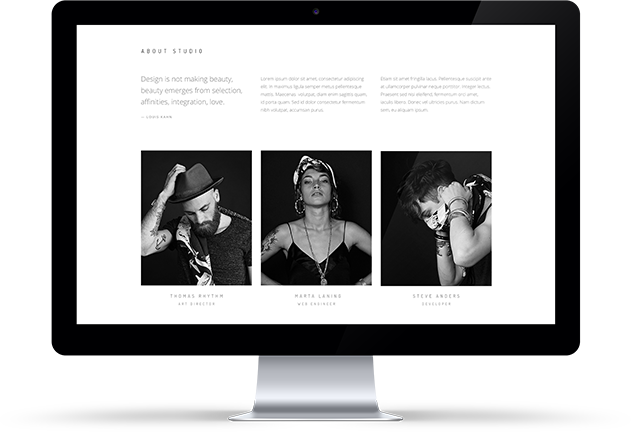
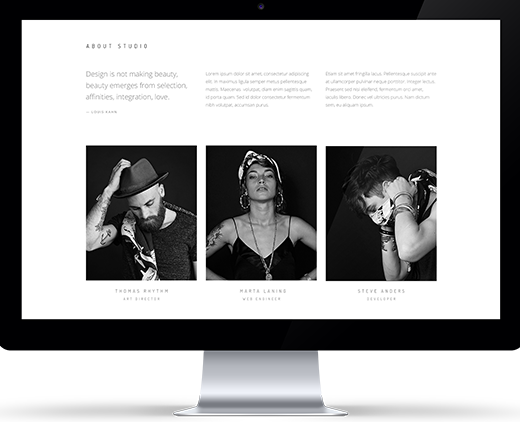
hw9 finished

diff --git a/src/index.html b/src/index.html
@@ -48,22 +48,22 @@
                 <h2 class="title">About studio</h2>
 
                 <div class="row">
-                    <div class="col-4">
+                    <div class="col-4 col-md-6 col-sm-12">
                         <p class="text-lg">Design is not making beauty, beauty emerges from selection, affinities, integration, love.
                         </p>
                         <span class="author">— Louis Kahn</span>
                     </div>
-                    <div class="col-4">
+                    <div class="col-4 col-md-6 col-sm-12">
                         <p class="text">Lorem ipsum dolor sit amet, consectetur adipiscing elit. In maximus ligula semper metus pellentesque mattis. Maecenas  volutpat, diam enim sagittis quam, id porta quam. Sed id dolor consectetur fermentum nibh volutpat, accumsan purus. </p>
                     </div>
-                    <div class="col-4">
+                    <div class="col-4 col-md-6 col-sm-12">
                         <p class="text">Etiam sit amet fringilla lacus. Pellentesque suscipit ante at ullamcorper pulvinar neque porttitor. Integer lectus. Praesent sed nisi eleifend, fermentum orci amet, iaculis libero. Donec vel ultricies purus. Nam dictum sem, eu aliquam ipsum.</p>
                     </div>
                 </div>
                 <!--/ row-->
                 
                 <div class="row">
-                    <div class="col-4">
+                    <div class="col-4 col-md-6 col-sm-12">
                         <div class="worker">
 
                             <div class="worker__photo">
@@ -116,7 +116,7 @@
                         </div>
                     </div>
                     <!-- /col-4-->
-                    <div class="col-4">
+                    <div class="col-4 col-md-6 col-sm-12">
                         <div class="worker">
 
                             <div class="worker__photo">
@@ -169,7 +169,7 @@
                         </div>
                     </div>
                     <!-- /col-4-->
-                    <div class="col-4">
+                    <div class="col-4 col-md-6 col-sm-12">
                         <div class="worker">
 
                             <div class="worker__photo">
@@ -677,6 +677,7 @@
                 <p class="contact__form-desc text-center"><i class="fas fa-info-circle"></i> Please trust us, we will never send you spam</p>
             </div>
         </section>
+        <!--/newsletter-->
         <section class="contact section-default">
             <div class="contact__container">
                 <h2 class="contact__title title text-center">Contact</h2>
@@ -729,6 +730,15 @@
             </div>
         </section>
         <!--/contact-->
+        <section class="map-container">
+            <div class="map">
+                <div class="map__bg d-flex flex-column justify-content-center align-items-center text-center">
+                    <div class="header__btn map__btn"><i class="fas fa-map-marker-alt"></i></div>
+                    <h2 class="map__title">Open the map <i class="fas fa-angle-down"></i></h2>
+                </div>
+                <iframe src="https://www.google.com/maps/embed?pb=!1m18!1m12!1m3!1d20218.778561716357!2d29.5925635!3d50.694939000000005!2m3!1f0!2f0!3f0!3m2!1i1024!2i768!4f13.1!3m3!1m2!1s0x472b0fb6d5ee09b7%3A0x23e8b54aa385af16!2z0J_QtdGB0LrQvtCy0LrQsCwg0JrQuNC10LLRgdC60LDRjyDQvtCx0LvQsNGB0YLRjCwgMDc4MjA!5e0!3m2!1sru!2sua!4v1637168178856!5m2!1sru!2sua" width="100%" height="410" style="border:0;" allowfullscreen="" loading="lazy"></iframe>
+            </div>
+        </section>
     </main>
     <!-- /main -->
     <footer class="footer bg-gray d-flex justify-content-center align-items-center">

diff --git a/src/scss/map/_map.scss b/src/scss/map/_map.scss
@@ -1,0 +1,43 @@
+.map {
+  position: relative;
+
+
+  &:hover {
+    .map__bg {
+      opacity: 0;
+      z-index: -1;
+    }
+  }
+
+
+  &__bg {
+    position: absolute;
+    opacity: 0.9;
+    top: 0;
+    left: 0;
+    width: 100%;
+    height: 100%;
+    z-index: 9;
+    background-color: #131313;
+    transition: all .6s ease-in-out;
+  }
+
+  &__btn {
+    width: 26px;
+    height: 26px;
+
+    & > * {
+      transform: rotate(-45deg);
+    }
+  }
+
+  &__title {
+    opacity: 0.75;
+    color: #ffffff;
+    font-family: 'Dosis', sans-serif;
+    font-size: 16px;
+    font-weight: 400;
+    text-transform: uppercase;
+    letter-spacing: 4.8px;
+  }
+}

diff --git a/src/scss/about/_worker.scss b/src/scss/about/_worker.scss
@@ -24,6 +24,10 @@
     background-color: #131313;
     height: 100%;
     transform: rotateY(180deg);
+
+    @include tablet {
+      padding: 20px;
+    }
   }
   &__skills-title {
     color: #ffffff;
@@ -84,6 +88,21 @@
       .worker__skills {
         transform: rotateY(360deg);
       }
+    }
+
+    @include tablet {
+      height: 400px;
+    }
+    @include mobile-large {
+      height: 450px;
+      max-width: 80%;
+      margin-left: auto;
+      margin-right: auto;
+    }
+
+    @include mobile {
+      max-width: 90%;
+      height: 420px;
     }
   }
 

diff --git a/src/scss/_grid.scss b/src/scss/_grid.scss
@@ -389,7 +389,7 @@
     max-width: 25%;
   }
   .col-lg-4 {
-    flex: 0 0 33.333333%;
+    flex: 0 0 +33.333333%;
     max-width: 33.333333%;
   }
   .col-lg-5 {
@@ -551,7 +551,11 @@
   .col-md-6 {
     flex: 0 0 50%;
     max-width: 50%;
+    &:not(:nth-child(-n+2)) {
+      margin-top: 40px;
+    }
   }
+
   .col-md-7 {
     flex: 0 0 58.333333%;
     max-width: 58.333333%;
@@ -733,6 +737,10 @@
   .col-sm-12 {
     flex: 0 0 100%;
     max-width: 100%;
+
+    &:not(:nth-child(-n+1)) {
+      margin-top: 40px;
+    }
   }
   .order-sm-first {
     order: -1;

diff --git a/src/scss/style.scss b/src/scss/style.scss
@@ -16,6 +16,7 @@
 @import "news/news";
 @import "newsletter/newsletter";
 @import "contact/contact";
+@import "map/map";
 @import "footer/footer";
 
 //@import "section/section";

diff --git a/src/scss/lets-talk/_lets-talk.scss b/src/scss/lets-talk/_lets-talk.scss
@@ -22,5 +22,11 @@
     top: -172px;
     right: -34px;
     height: 443px;
+    width: auto;
+
+    @include laptop {
+      height: 370px;
+      right: 0;
+    }
   }
 }

diff --git a/src/scss/about/_about.scss b/src/scss/about/_about.scss
@@ -3,6 +3,10 @@
 
   & .row + .row {
     margin-top: 108px;
+
+    @include mobile-large {
+      margin-top: 60px;
+    }
   }
   & .title {
     margin-bottom: 75px;

diff --git a/src/scss/header/_header.scss b/src/scss/header/_header.scss
@@ -32,7 +32,7 @@
   }
 
   &__info {
-    width: 930px;
+    max-width: 930px;
     margin-left: auto;
     margin-right: auto;
     text-align: center;
